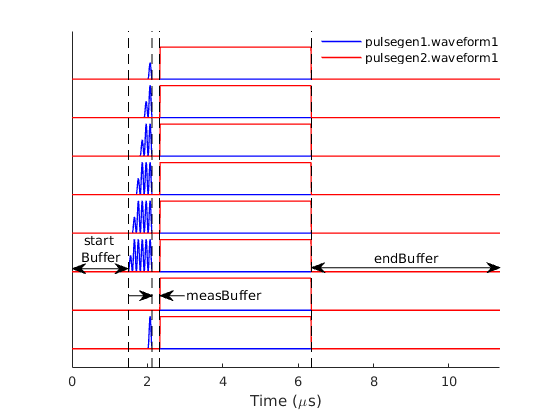
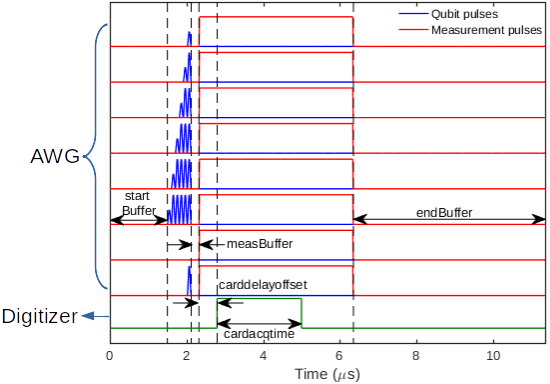
Gengyan - Update README for measlib

Changed region(s): [[0.0, 0.0, 1.0, 1.0]]

diff --git a/@HolzworthHS9000/HolzworthHS9000.m b/@HolzworthHS9000/HolzworthHS9000.m
@@ -25,11 +25,8 @@ classdef HolzworthHS9000 < handle
         freq; % in Hz
         power; % in dBm
         phase; % in radians
-        modulation = 0; % 0/1
-        alc = 0;
-        pulse = 0;
-        iq = 0;
-        ref = '10MHz' % (internal 100MHz) 'int', (external) '10MHz', or (external) '100MHz'
+        modulation; % 0/1
+        ref; % (internal 100MHz) 'int', (external) '10MHz', or (external) '100MHz'
     end
     
     properties (SetAccess = private)
@@ -38,6 +35,12 @@ classdef HolzworthHS9000 < handle
     
     properties (Hidden, SetAccess = private)
         channel; % Channel number
+        % The following properties are not supported by hardware
+        % They are kept here as placeholder to make the interface
+        % consistent with E8267D class
+        alc = 0;
+        pulse = 0;
+        iq = 0;
     end
 
     methods
@@ -58,7 +61,9 @@ classdef HolzworthHS9000 < handle
             tempstr = strsplit(address, '-');
             self.channel = str2double(tempstr{3});
             % Set reference clock
-            self.ref = '10MHz';            
+            self.ref = '10MHz';
+            % Turn off modulation
+            self.modulation = 0;
         end
         
         function Finalize(self)

diff --git a/@GPIBINSTR/GPIBINSTR.m b/@GPIBINSTR/GPIBINSTR.m
@@ -17,21 +17,20 @@ classdef GPIBINSTR < handle
             instrID = sscanf(address, 'GPIB0::%d');
 
             while (~success)
-                % If device is gpib handle and already open
+                % If device is visa handle and already open
                 self.instrhandle = instrfind('Name', ['VISA-GPIB0-', num2str(instrID), '-0'], ...
                                              'Status', 'open');
                 if ~isempty(self.instrhandle)
                     success = 1;
                     break;
                 end
-                
-                % If device is visa handle and already open
                 self.instrhandle = instrfind('Name', ['VISA-GPIB0-', num2str(instrID)], ...
                                              'Status', 'open');
                 if ~isempty(self.instrhandle)
                     success = 1;
                     break;
                 end
+                % If device is gpib handle and already open
                 self.instrhandle = instrfind('Name', ['GPIB0-', num2str(instrID)], 'Status', 'open');
                 if ~isempty(self.instrhandle)
                     success = 1;

diff --git a/+measlib/@SmartSweep/SetPulse.m b/+measlib/@SmartSweep/SetPulse.m
@@ -38,7 +38,7 @@ function SetPulse(self)
             self.fluxseq(end+1) = pulselib.gateSequence(self.pulseCal.Identity());
         end
     end
-    % Get the duration of he longest pulse
+    % Get the duration of the longest sequence
     try
         seqDuration = max([self.gateseq.totalDuration]);
     catch

diff --git a/+measlib/README.md b/+measlib/README.md
@@ -39,7 +39,7 @@ See [M9330A AWG document](../@M9330AWG/README.md#multiple-module-synchronization
 
 For experiments that require different hardware wiring, see [hardware wiring](#hardware-wiring).
 ## SmartSweep class
-[`SmartSweep`](#class-smartsweep--handle) is an attempt to provide a generic, extensible interface for measurements using E8267D microwave generators and M9330A AWG.
+[`SmartSweep`](#class-smartsweep--handle) is an attempt to provide a generic, extensible interface for measurements using E8267D microwave generators and M9330A AWG. In the following, the `SmartSweep` object will be named as `x`.
 
 ### For users
 For pre-defined measurements such as [`TransSweep`](#class-transsweep--smartsweep), [`SpecSweep`](#class-specsweep--smartsweep), [`Rabi`](#class-rabi--smartsweep), [`T1`](#class-t1--smartsweep), etc., see [example code](../ExampleCode/ExampleCode_measlib.m).
@@ -62,7 +62,7 @@ For E8267D generators and YOKOGAWA voltage sources, sweeping paramters can be sc
 For M9330A AWG's, `gateseq`, `measseq` and `fluxseq` can be an object, or object array of [`pulsegen`](../+pulselib/README.md#contents) classes.
 
 #### Setting parameters
-The parameters can be scalar, row vector, column vector or 2D array. The result is shown in the code and table below.
+The sweeping parameters can be scalar, row vector, column vector or 2D array. The result is shown in the code and table below.
 
 ```matlab
 x = measlib.SmartSweep();
@@ -80,6 +80,8 @@ x.specpower = [-10, -5, 0; ...
 |3|rfpower = -30<br>rffreq = 5e9<br>specfreq = 5e9<br>specpower = -30|rfpower = -30<br>rffreq = 5.5e9<br>specfreq = 5e9<br>specpower = -25|rfpower = -30<br>rffreq = 6e9<br>specfreq = 5e9<br>specpower = -20|
 
 In the experiment, each column in a row will be swept in the inner loop, and each row will be swept in the outer loop.
+
+To see the full list of parameters, go to [API specifications](#api-specifications).
 
 #### Setting common configurations
 A *struct* `config` can be passed when initializing a measurement. For example,
@@ -106,6 +108,11 @@ The parameters `startBuffer`, `measBuffer` and `endBuffer` can be used to adjust
 The duration of each pulse sequence is therefore `startBuffer + max([gateseq.totalDuration]) + measBuffer + measseq.totalDuration + endBuffer`.
 
 #### Setting digitizer
+- `cardchannel` specifies which channels are used for data acquisition. It cann take one of the four values below:  
+  {'dataI'}: Uses channel 1  
+  {'dataQ'}: Uses channel 2  
+  {'dataIQ'}: Uses both channels for I and Q of one qubit readout  
+  {'dataI', 'dataQ'}: Uses both channels for simultaenous readout of two qubits
 - `cardavg` specifies the number of averages for the digitizer.
 - `trigperiod` and `cardacqtime` can be set to `'auto'` or manually specified. When set to `'auto'`, trigger period will be slightly longer than the full pulse sequence, and acquisition time will be slightly longer than the measurement pulse duration.
 - `carddelayoffset` can be used to fine tune the delay time for the digitizer. When set to zero, acquisition should start roughly at the beginning of the measurement pulse. `carddelayoffset` specifies the **additional** delay (can be positive or negative) with respect to that value.
@@ -113,9 +120,9 @@ The duration of each pulse sequence is therefore `startBuffer + max([gateseq.tot
 #### Hardware wiring
 The wiring of AWG channels and microwave generators are specified by properties `awg`, `awgchannel` and `generator`. The default configuration is (see [figure](#hardware-configuration)):
 ```matlab
-self.generator = {specgen, [], fluxgen, rfgen, logen, [], []};
-self.awg = {pulsegen1, [], pulsegen2, pulsegen2, []};
-self.awgchannel = {{'waveform1', 'waveform2'}, [], {'waveform2'}, {'waveform1'}, []};
+x.generator = {specgen, [], fluxgen, rfgen, logen, [], []};
+x.awg = {pulsegen1, [], pulsegen2, pulsegen2, []};
+x.awgchannel = {{'waveform1', 'waveform2'}, [], {'waveform2'}, {'waveform1'}, []};
 ```
 The correspondance between pulse sequences, AWGs and generators is listed in the table below.
 
@@ -129,18 +136,20 @@ The correspondance between pulse sequences, AWGs and generators is listed in the
 
 For example, the following configuration can be used for two-qubit measurement (requires 6 generators):
 ```matlab
-self.awg = {pulsegen1, pulsegen2, [], pulsegen1, puslegen2};
-self.awgchannel = {{'waveform1', 'waveform2'}, {'waveform1', 'waveform2'}, ...
+x.awg = {pulsegen1, pulsegen2, [], pulsegen1, puslegen2};
+x.awgchannel = {{'waveform1', 'waveform2'}, {'waveform1', 'waveform2'}, ...
                    [], {'marker3'}, {'marker3'}};
-self.generator = {specgen, specgen2, [], rfgen, logen, rfgen2, logen2};
+x.generator = {specgen, specgen2, [], rfgen, logen, rfgen2, logen2};
 ```
 For qubit 1, `pulsegen1` generates baseband I/Q waveforms in channel 1/2, and modulates `specgen`; For readout cavity 1, `pulsegen1.marker3` is used for gating `rfgen` and `logen` mixes with the output.  
 For qubit 2, `pulsegen2` generates baseband I/Q waveforms in channel 1/2, and modulates `specgen2`; For readout cavity 2, `pulsegen2.marker3` is used for gating `rfgen2` and `logen2` mixes with the output.
 
 #### Running measurement
-- `SetUp` method handles pulse timing, generates waveforms for AWG's and sets up relevant instruments.
-- `bgsubtraction` property can be set to `[]`, `'speconoff'`, `'rfonoff'`, `'fluxonoff'`, `'pulseonoff'` for background subtraction.
-- `Run` method starts the measurement and stores the measured data.
+```matlab
+x.SetUp();  % Set up parameters and instruments
+x.Run();  % Run experiment and store result
+```
+The result will be stored in `x.result`.
 
 #### Plotting data
 During the measurement the data will be plotted and updated.
@@ -197,22 +206,30 @@ Pulse timing parameters are calculated in [SetPulse](./@SmartSweep/SetPulse.m) m
 ```matlab
 seqDuration = 0;
 measDuration = 0;
+...
+% Get the duration of the longest sequence
 try
     seqDuration = max([self.gateseq.totalDuration]);
 catch
 end
-
+try
+    seqDuration = max(seqDuration, max([self.gateseq2.totalDuration]));
+catch
+end
 try
     seqDuration = max(seqDuration, max([self.fluxseq.totalDuration]));
 catch
 end
-
+% Get the duration of measurement pulse
 try
     measDuration = self.measseq.totalDuration;
 catch
 end
+try
+    measDuration = max(measDuration, self.measseq2.totalDuration);
+catch
 end
-
+% Calculate the timing parameters
 self.seqEndTime = self.startBuffer + seqDuration;
 self.measStartTime = self.seqEndTime + self.measBuffer;
 self.waveformEndTime = self.measStartTime + measDuration + self.endBuffer;
@@ -223,21 +240,25 @@ These parameters are then used in [SetSweep](./@SmartSweep/SetSweep.m) method wh
 % In SetSweep.m
 function setgatewav(gateseq)
     ...
-    [pulsegen1.waveform1, pulsegen1.waveform2] ...
-        = gateseq.uwWaveforms(self.awgtaxis, self.seqEndTime-gateseq.totalDuration);
-    ...
-end
+    [waveform1, waveform2] ...
+        = gateseq.uwWaveforms(self.awgtaxis, ...
+                              self.seqEndTime - gateseq.totalDuration);
 
-function setfluxwav(fluxseq)
-    [pulsegen2.waveform2, ~] ...
-        = fluxseq.uwWaveforms(self.awgtaxis, ...
-                              self.seqEndTime-fluxseq.totalDuration);
+    if length(self.awgchannel{1}) == 2
+        % I and Q => dual channel
+        self.awg{1}.(self.awgchannel{1}{1}) = waveform1;
+        self.awg{1}.(self.awgchannel{1}{2}) = waveform2;
+    else
+        if strfind(self.awgchannel{1}{1}, 'marker')
+            % I => marker 
+            self.awg{1}.(self.awgchannel{1}{1}) = double(waveform1 ~= 0);
+        else
+            % I => single channel
+            self.awg{1}.(self.awgchannel{1}{1}) = waveform1;
+        end
+    end
 end
-
-function setmeaswav(measseq)
-    [pulsegen2.waveform1, ~] ...
-        = measseq.uwWaveforms(self.awgtaxis, self.measStartime);
-end
+...
 ```
 
 #### Setting up sweeps
@@ -332,6 +353,8 @@ for row = 1:self.numSweep1
         ...
     end
 ```
+#### Initializing instruments
+
 
 #### Adding new sweeps
 To add a new instrument and its parameters (`yoko3` and `yoko3volt` are used in the example below) to `SmartSweep`,
@@ -370,9 +393,12 @@ To add a new instrument and its parameters (`yoko3` and `yoko3volt` are used in 
     *similar parameters for specgen, logen, fluxgen, yokos, etc.*...
     
     *Pulse generation parameters*
-    - **pulseCal** (*[paramlib.pulseCal](../+paramlib/README.md#class-paramlibpulsecal) object*): pulse paramters
+    - **pulseCal** (*[paramlib.pulseCal](../+paramlib/README.md#class-paramlibpulsecal) object*): qubit pulse paramters
+    - **pulseCal2** (*[paramlib.pulseCal](../+paramlib/README.md#class-paramlibpulsecal) object*): qubit 2 pulse paramters
     - **gateseq** (*[pulselib.gateSequence](../+pulselib/README.md#class-pulselibgatesequence--handle) object*): qubit pulse sequences
+    - **gateseq2** (*[pulselib.gateSequence](../+pulselib/README.md#class-pulselibgatesequence--handle) object*): qubit 2 pulse sequences
     - **measseq** (*[pulselib.gateSequence](../+pulselib/README.md#class-pulselibgatesequence--handle) object*): measurement pulse
+    - **measseq2** (*[pulselib.gateSequence](../+pulselib/README.md#class-pulselibgatesequence--handle) object*): measurement 2 pulse
     - **fluxseq** (*[pulselib.gateSequence](../+pulselib/README.md#class-pulselibgatesequence--handle) object*): addition pulse sequence when needed
 
     *Pulse timing parameters*
@@ -381,14 +407,26 @@ To add a new instrument and its parameters (`yoko3` and `yoko3volt` are used in 
     - **endBuffer** (*float*): buffer after measurement pulse
 
     *Acquisition and trigger parameters*
+    - **cardchannel** (*cell string*): digitizer channel for acquiring data. Current options are {'dataIQ'}, {'dataI'}, {'dataQ'} and {'dataI', 'dataQ'}.
     - **waittime** (*float*): wait time for instrument to stablize
     - **trigperiod** (*float or 'auto'*): trigger period
     - **carddelayoffset** (*float*): compensation for automatic acquisition delay
     - **cardacqtime** (*float or 'auto'*): duration of acquistion
     - **cardavg** (*integer*): number of averages
-    - **bgsubtraction** (*string*): background subtraction. Current options are 'speconoff', 'rfonoff', 'fluxonoff', 'pulseonoff'.
+    - **bgsubtraction** (*string*): background subtraction. Current options are 'speconoff', 'rfonoff' and 'fluxonoff'.
     - **normalization** (*0/1*): append zero and pi gate to gate sequence for readout normalization
     - **intrange** (*2-element array*): start and stop time for integrating rawdata
+
+    *Histogram parameters*
+    - **histogram** (*1/0*): histogram on/off
+    - **cardseg** (*integer*): number of card segments for histogram
+    - **histrepeat** (*integer*): number of software averages for histogram
+    - **histbins** (*integer*): number of bins for histogram
+
+    *Hardware wiring parameters*
+    - **awg** (*cell array*): AWG handles for pulse generation
+    - **awgchannel** (*cell string*): AWG channels for pulse generation
+    - **generator** (*cell array*): Generator handles for pulse generation
 
     *Plotting parameters*
     - **plotsweep1** (*0/1*): plot on/off for outer loop
@@ -424,7 +462,7 @@ To add a new instrument and its parameters (`yoko3` and `yoko3volt` are used in 
 	- **rfpower** (*float*): power for rfgen. In pulse mode, this will be overwritten by `pulseCal.rfPower`.
 	- **intfreq** (*float*): intermediate frequency (i.e., `logen.freq - rfgen.freq`). In pulse mode, this will be overwritten by `pulseCal.intFreq`.
 	- **lopower** (*float*): power for logen. In pulse mode, this will be overwritten by `pulseCal.loPower`.
-	- **bgsubtraction** (*string*): can be `rfonoff` or []
+	- **bgsubtraction** (*string*): can be 'rfonoff' or []
 	- **pulseCal** (*[paramlib.pulseCal](../+paramlib/README.md#class-paramlibpulsecal) object, optional*): pulse parameters (needed for pulse mode only)
 	- **qubitGates** (*cell string, optional*): qubit gates applied before measurement pulse, can be {'X180'}, etc. (Needed for pulse mode only)
 - **Methods**:
@@ -439,7 +477,7 @@ To add a new instrument and its parameters (`yoko3` and `yoko3volt` are used in 
 	- **rfpower** (*float*): power for rfgen. In pulse mode, this will be overwritten by `pulseCal.rfPower`.
 	- **intfreq** (*float*): intermediate frequency (i.e., `logen.freq - rfgen.freq`). In pulse mode, this will be overwritten by `pulseCal.intFreq`.
 	- **lopower** (*float*): power for logen. In pulse mode, this will be overwritten by `pulseCal.loPower`.
-	- **bgsubtraction** (*string*): can be `speconoff` or []
+	- **bgsubtraction** (*string*): can be 'speconoff' or []
 	- **pulseCal** (*[paramlib.pulseCal](../+paramlib/README.md#class-paramlibpulsecal) object, optional*): pulse parameters (needed for pulse mode only)
 	- **qubitGates** (*cell string, optional*): qubit gates applied before measurement pulse, can be {'X180'}, etc. (Needed for pulse mode only)
 - **Methods**:
